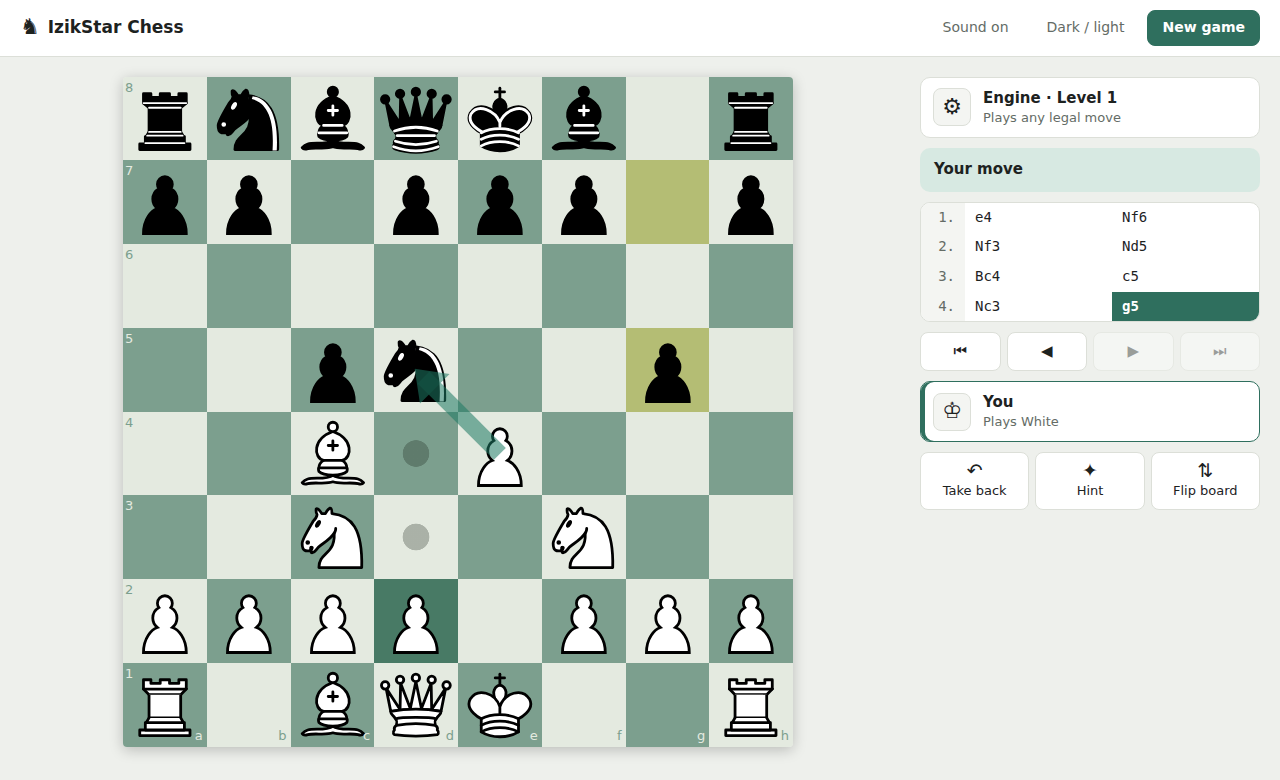
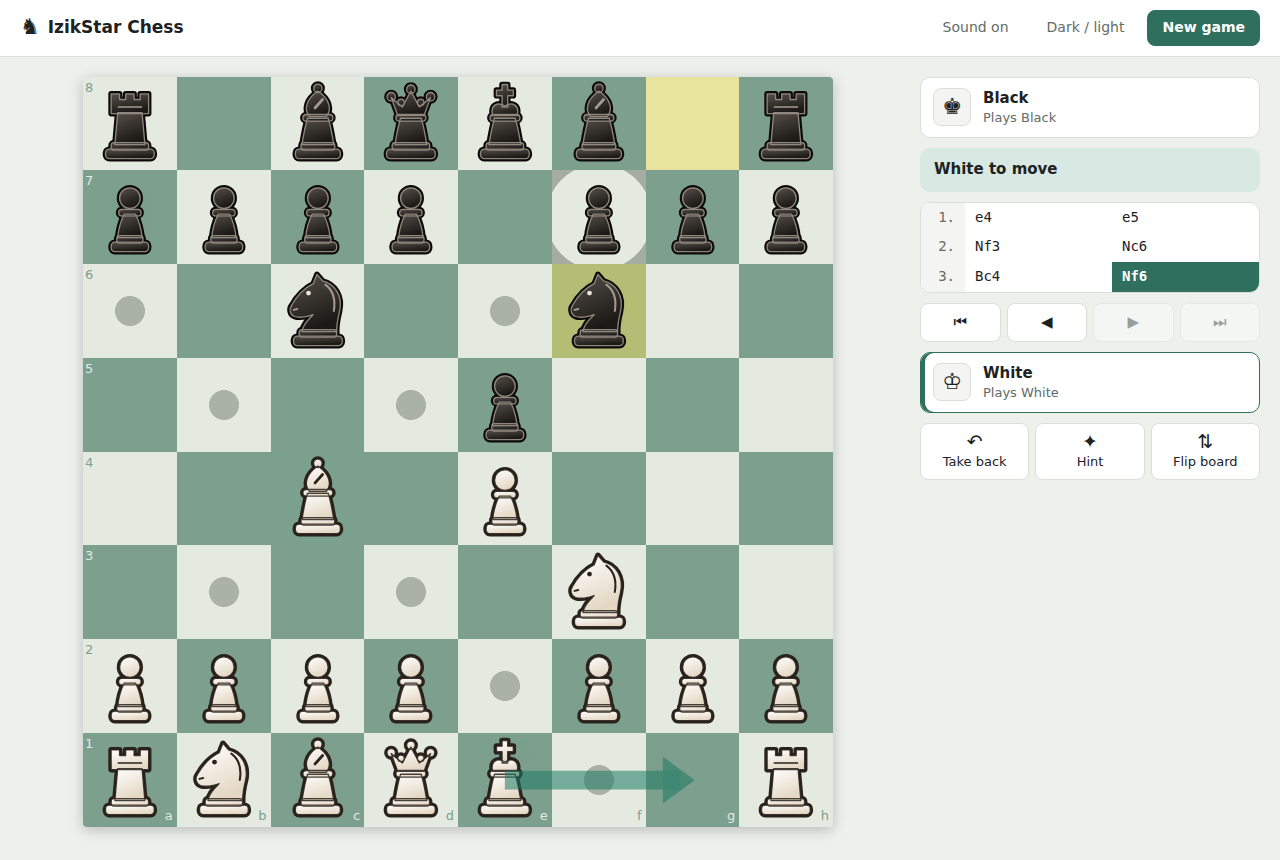
web: draw the project's own piece set; README for the public repository
The board and the promotion picker now draw the original pieces from docs/art/pieces.svg
(cut into cells at load time) instead of react-chessboard's defaults, so every asset in the
repository is the project's own. README: new screenshot, licensing (no third-party sounds
left), a note that this repository continues the private one, and the re-scoped Phase 5/6
roadmap. Guide and Phase 5 research: Phase 4c merged, E1-E12 approved.

Claude-Session: https://claude.ai/code/session_018qdSQ3FEZ4Kzctag4UYwC5

diff --git a/web/src/pieces.tsx b/web/src/pieces.tsx
@@ -1,0 +1,46 @@
+import type { CSSProperties } from 'react';
+import sprite from '../../docs/art/pieces.svg?raw';
+
+// The project's own piece set (docs/art/pieces.svg, MIT like the rest of the repo), used by the
+// board and the promotion picker. The sheet is 6 columns (king, queen, bishop, knight, rook, pawn)
+// by 2 rows (white, black) of 100×100 cells; each cell is cut out into its own small SVG.
+
+const ORDER = ['K', 'Q', 'B', 'N', 'R', 'P'];
+
+function cells(): Record<string, string> {
+  const doc = new DOMParser().parseFromString(sprite, 'image/svg+xml');
+  const xml = new XMLSerializer();
+  const defs = doc.querySelector('defs');
+  const defsXml = defs ? xml.serializeToString(defs) : '';
+  const out: Record<string, string> = {};
+  for (const g of Array.from(doc.documentElement.children)) {
+    const m = /translate\((\d+)\s+(\d+)\)/.exec(g.getAttribute('transform') ?? '');
+    if (g.tagName !== 'g' || !m) continue;
+    const key = (Number(m[2]) === 0 ? 'w' : 'b') + ORDER[Number(m[1]) / 100];
+    const inner = Array.from(g.children).map((c) => xml.serializeToString(c)).join('');
+    out[key] = defsXml + inner;
+  }
+  return out;
+}
+
+const CELLS = cells();
+
+export type PieceKey = `${'w' | 'b'}${'K' | 'Q' | 'B' | 'N' | 'R' | 'P'}`;
+
+export function PieceSvg({ piece, style }: { piece: string; style?: CSSProperties }) {
+  return (
+    <svg
+      viewBox="0 0 100 100"
+      width="100%"
+      height="100%"
+      style={style}
+      aria-hidden="true"
+      dangerouslySetInnerHTML={{ __html: CELLS[piece] ?? '' }}
+    />
+  );
+}
+
+/** The board's piece renderers, keyed like react-chessboard's ("wK", "bP", …). */
+export const PIECES = Object.fromEntries(
+  Object.keys(CELLS).map((key) => [key, (props?: { svgStyle?: CSSProperties }) => <PieceSvg piece={key} style={props?.svgStyle} />]),
+);

diff --git a/web/src/Board.tsx b/web/src/Board.tsx
@@ -1,7 +1,8 @@
 import { useEffect, useMemo, useState, type CSSProperties } from 'react';
-import { Chessboard, defaultPieces, type Arrow } from 'react-chessboard';
+import { Chessboard, type Arrow } from 'react-chessboard';
 import type { Color } from './protocol';
 import { boardOf } from './chess';
+import { PIECES, PieceSvg } from './pieces';
 
 interface Props {
   fen: string;
@@ -113,6 +114,7 @@ export function Board({ fen, orientation, legal, lastMove, checkSquare, hint, on
         options={{
           id: 'main',
           position: fen,
+          pieces: PIECES,
           boardOrientation: orientation,
           squareStyles,
           arrows,
@@ -201,10 +203,9 @@ function PromotionPicker({ square, orientation, color, onPick, onCancel }: {
         onClick={(e) => e.stopPropagation()}
       >
         {(['q', 'r', 'b', 'n'] as const).map((p) => {
-          const Piece = defaultPieces[color + p.toUpperCase()];
           return (
             <button key={p} type="button" className="promo-piece" aria-label={{ q: 'Queen', r: 'Rook', b: 'Bishop', n: 'Knight' }[p]} onClick={() => onPick(p)}>
-              <Piece />
+              <PieceSvg piece={color + p.toUpperCase()} />
             </button>
           );
         })}

diff --git a/web/vite.config.ts b/web/vite.config.ts
@@ -11,6 +11,8 @@ export default defineConfig({
     emptyOutDir: true,
   },
   server: {
+    // the piece set's source lives in docs/art, outside web/
+    fs: { allow: ['..'] },
     proxy: {
       '/ws': { target: 'ws://127.0.0.1:7070', ws: true },
     },

diff --git a/README.md b/README.md
@@ -6,12 +6,14 @@ in the browser: the jar starts a small local server and opens the game.
 
 ![IzikStar Chess in the browser: the board with the last move, a selected piece's moves and a hint arrow; the side panel shows the players, the status line and the move list](docs/images/web-ui.png)
 
-*Mid-game against the engine. Yellow marks the last move, dots show where the selected piece
-can go, and the green arrow is a hint the player asked for.*
+*An Italian Game in progress. Yellow marks the last move, dots show where the selected bishop
+can go, and the green arrow is a hint the player asked for (castle).*
 
 I started this as a personal project in 2024. It is now going through a planned, test-first
 refactor, which is documented phase by phase in this repository (see
-[Architecture and refactor](#architecture-and-the-ongoing-refactor)).
+[Architecture and refactor](#architecture-and-the-ongoing-refactor)). This public repository
+starts from a cleaned copy of the original private one; pull request numbers in the docs up to
+Phase 4c (#2 to #6) refer to that repository.
 
 ## Features
 
@@ -168,8 +170,8 @@ structure. Two documents describe it honestly instead of hiding the problems:
 | 3 | Decouple the UI from the rules; retire global state | Done ([research](docs/phase-3-research.md)) |
 | 4 | One concurrency model; a proper Stockfish session | Done ([research](docs/phase-4-research.md)) |
 | 4b | Fix the move generator's rule bugs; make the search fast enough for Levels 6-7 | Done ([research](docs/phase-4b-research.md)) |
-| 4c | Replace the Swing screens with a browser UI | Done, pending merge ([research](docs/ui-research.md)) |
-| 5 | Opening book in play; structured game database | Planned |
+| 4c | Replace the Swing screens with a browser UI | Done ([research](docs/ui-research.md)) |
+| 5 | Groundwork for an engine that learns by self-play evolution | Research approved ([research](docs/phase-5-research.md)) |
 
 Phase 2 is a good example of the approach:
 
@@ -260,8 +262,12 @@ On Linux, `sudo apt install stockfish` installs it at `/usr/games/stockfish`.
 
 ## Roadmap
 
-- **Phase 5:** use the opening book during play, and store games in a structured, queryable
-  form.
+- **Phase 5:** make every evaluation weight a parameter (about 500 of them), a self-play arena
+  that plays many games in parallel, a record of every run, and a lab screen to watch the
+  engine evolve and play its champion. The evolution algorithm itself is mine to write.
+- **Phase 6:** a small neural network that reads the board, trained and evolved on the games the
+  arena records.
+- **Later:** the online opening book.
 - **Longer term:** split the headless `rules`/engine core into a backend service behind the
   web front end that Phase 4c started.
 
@@ -269,11 +275,9 @@ On Linux, `sudo apt install stockfish` installs it at `/usr/games/stockfish`.
 
 MIT, see [LICENSE](LICENSE).
 
-The chess piece set is original artwork drawn for this project; its vector source is
-[`docs/art/pieces.svg`](docs/art/pieces.svg) and it is covered by the same MIT license.
-
-The sound effects (`src/main/resources/sounds/`) are third-party assets collected for a learning
-project. They are not covered by the MIT license, and their original authors keep their rights.
-If you are an author and want a sound credited or removed, please open an issue.
+The chess piece set is original artwork drawn for this project; the board draws it straight
+from its vector source, [`docs/art/pieces.svg`](docs/art/pieces.svg), and it is covered by the
+same MIT license. The sound effects are synthesised in the browser by
+[`web/src/sounds.ts`](web/src/sounds.ts), so the repository ships no third-party sound files.
 
 Stockfish is a separate project licensed under the GPLv3 and is not distributed here.

diff --git a/REFACTOR_GUIDE.md b/REFACTOR_GUIDE.md
@@ -451,7 +451,8 @@ their expected moves, or each change is justified in the phase notes.
 
 ## Phase 4c — Web UI
 
-> **Status: DONE on branch `phase-4c-web-ui`, pending merge (PR #6, 2026-10-02).** The owner
+> **Status: DONE — merged 2026-10-02** (PR #6 in the original private repository; this public
+> repository carries the same history from Phase 3 on). The owner
 > played it and asked for changes, which are in; the Swing UI (`main/`, `GUI/`, its sprites,
 > sounds and the FlatLaf dependency) is deleted, so the browser is the only UI. Research, decisions
 > (U1-U7, all approved by the owner) and the increment log are in
@@ -481,6 +482,12 @@ end-to-end test green; the existing suites unchanged; Swing UI deleted with the 
 ---
 
 ## Phase 5 — Build the originally-requested features
+
+> **Re-scoped 2026-10-02.** The owner defined "learning from past games" as evolving the
+> engine's parameters by self-play, and wants to write the evolution himself. Phase 5 is now the
+> groundwork for that (parameters, arena, record, lab page); the opening book moves later. All
+> decisions (E1-E12) are approved; see [docs/phase-5-research.md](docs/phase-5-research.md). The
+> text below is the original plan, kept for the history of why.
 
 **Goal.** Now that there's a clean, tested, headless rules/engine core, deliver the two
 capabilities that motivated this project in the first place: real opening-book integration and a

diff --git a/docs/phase-5-research.md b/docs/phase-5-research.md
@@ -1,8 +1,8 @@
 # Phase 5 research — groundwork for an engine that learns by self-play evolution
 
-Status: **E1-E8 approved by the owner 2026-10-02**, who also asked for "dozens more parameters"
-and to research letting machine learning set them, or a neural network that reads the board
-(§8). E9-E12 (§8.5) await the owner. No code yet.
+Status: **all decisions (E1-E12) approved by the owner 2026-10-02**, E9-E12 after he asked for
+"dozens more parameters" and research into machine learning setting them or a neural network
+that reads the board (§8). Implementation follows §7.
 Written 2026-10-02 on top of Phase 4c (`phase-4c-web-ui`, PR #6).
 
 ## 1. What the owner asked for
